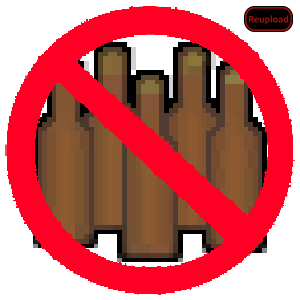
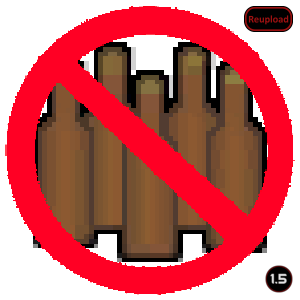
Mod updated for 1.5 and passed autotests

Changed region(s): [[0.87, 0.87, 0.99, 0.99]]

diff --git a/README.md b/README.md
@@ -25,10 +25,13 @@ My Rimworld Modlist: https://steamcommunity.com/profiles/76561198092655235/mywor
 
 -  See if the the error persists if you just have this mod and its requirements active.
 -  If not, try adding your other mods until it happens again.
--  Post your error-log using https://steamcommunity.com/workshop/filedetails/?id=818773962]HugsLib and command Ctrl+F12
+-  Post your error-log using https://steamcommunity.com/workshop/filedetails/?id=818773962]HugsLib or the standalone https://steamcommunity.com/sharedfiles/filedetails/?id=2873415404]Uploader and command Ctrl+F12
 -  For best support, please use the Discord-channel for error-reporting.
 -  Do not report errors by making a discussion-thread, I get no notification of that.
 -  If you have the solution for a problem, please post it to the GitHub repository.
+-  Use https://github.com/RimSort/RimSort/releases/latest]RimSort to sort your mods
 
 
+
+https://steamcommunity.com/sharedfiles/filedetails/changelog/2631474117]![Image](https://img.shields.io/github/v/release/emipa606/DrugsAreNotFood?label=latest%20version&style=plastic&color=9f1111&labelColor=black)
 
